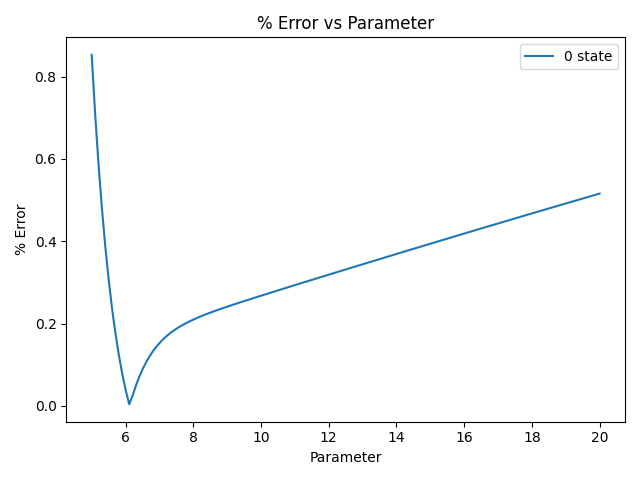
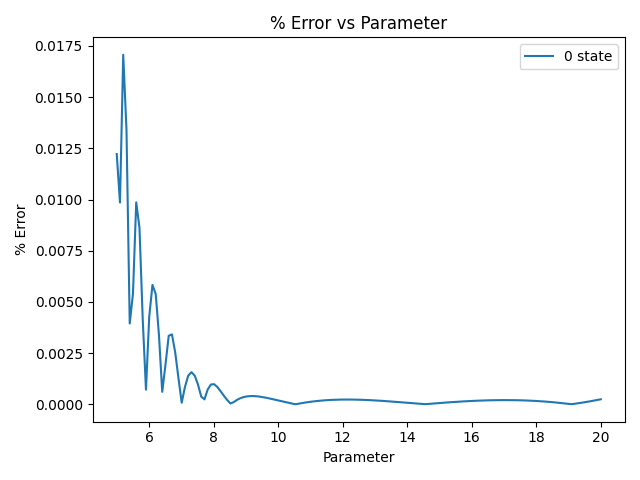
fixed bug with loading. everything apart from ec computation is complete.

diff --git a/src/processing/process_pmm.py b/src/processing/process_pmm.py
@@ -64,13 +64,17 @@ def _load_and_run_pmm(pmm_instance, experiment_dir, epochs, store_loss, predict_
     pmm_instance.set_state(state)
     if epochs > 0: 
         pmm_instance.train_pmm(epochs, store_loss)
+
+    # with pmm trained, predict energies (normalize predict_Ls first)
+    # we change the bounds in case predict_Ls is different from what it was when loading the state
+    plmin, plmax, predict_Ls = utils.math.normalize(predict_Ls)
+    bounds = (bounds[0], bounds[1], bounds[2], bounds[3], plmin, plmax)
     predict_energies = pmm_instance.predict_energies(predict_Ls, k_num_predict)
     losses = pmm_instance.get_state()["losses"]
 
     # denormalize data
     sample_Ls, sample_energies, predict_Ls, predict_energies = denormalize_data(
             bounds, sample_Ls, sample_energies, predict_Ls, predict_energies)
-    print(predict_energies)
     return bounds, losses, sample_Ls, sample_energies, predict_energies
 
 def _train_new_pmm(model_name, model_kwargs, pmm_instance, sample_Ls, k_num_sample, epochs, predict_Ls, k_num_predict, store_loss):
